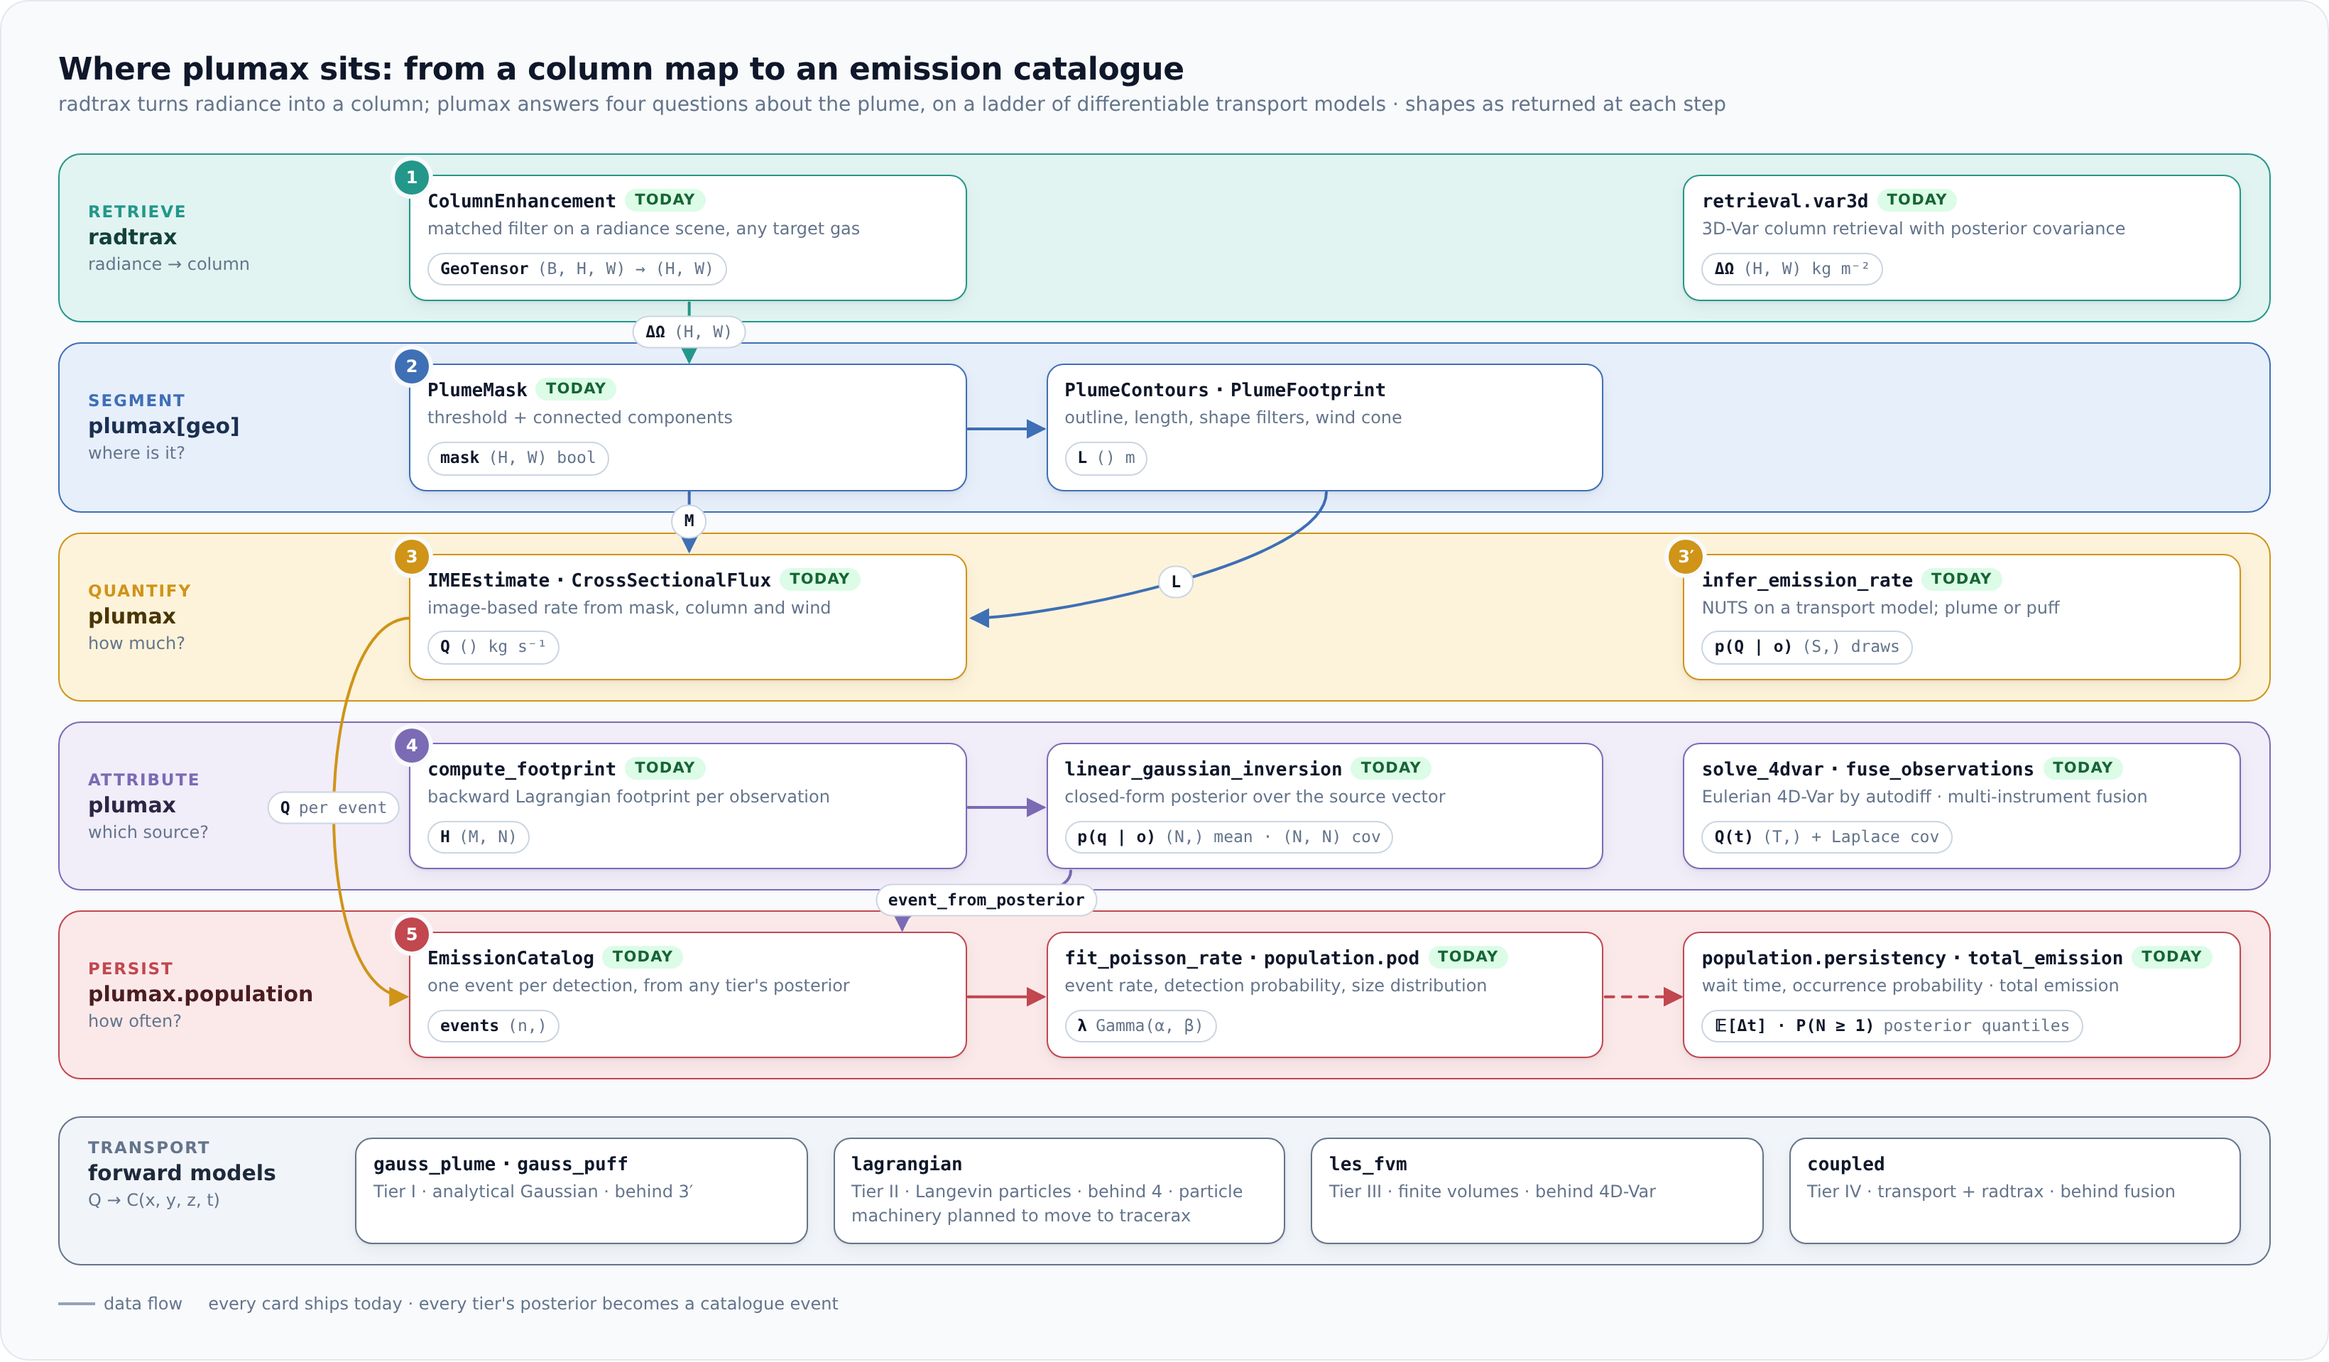
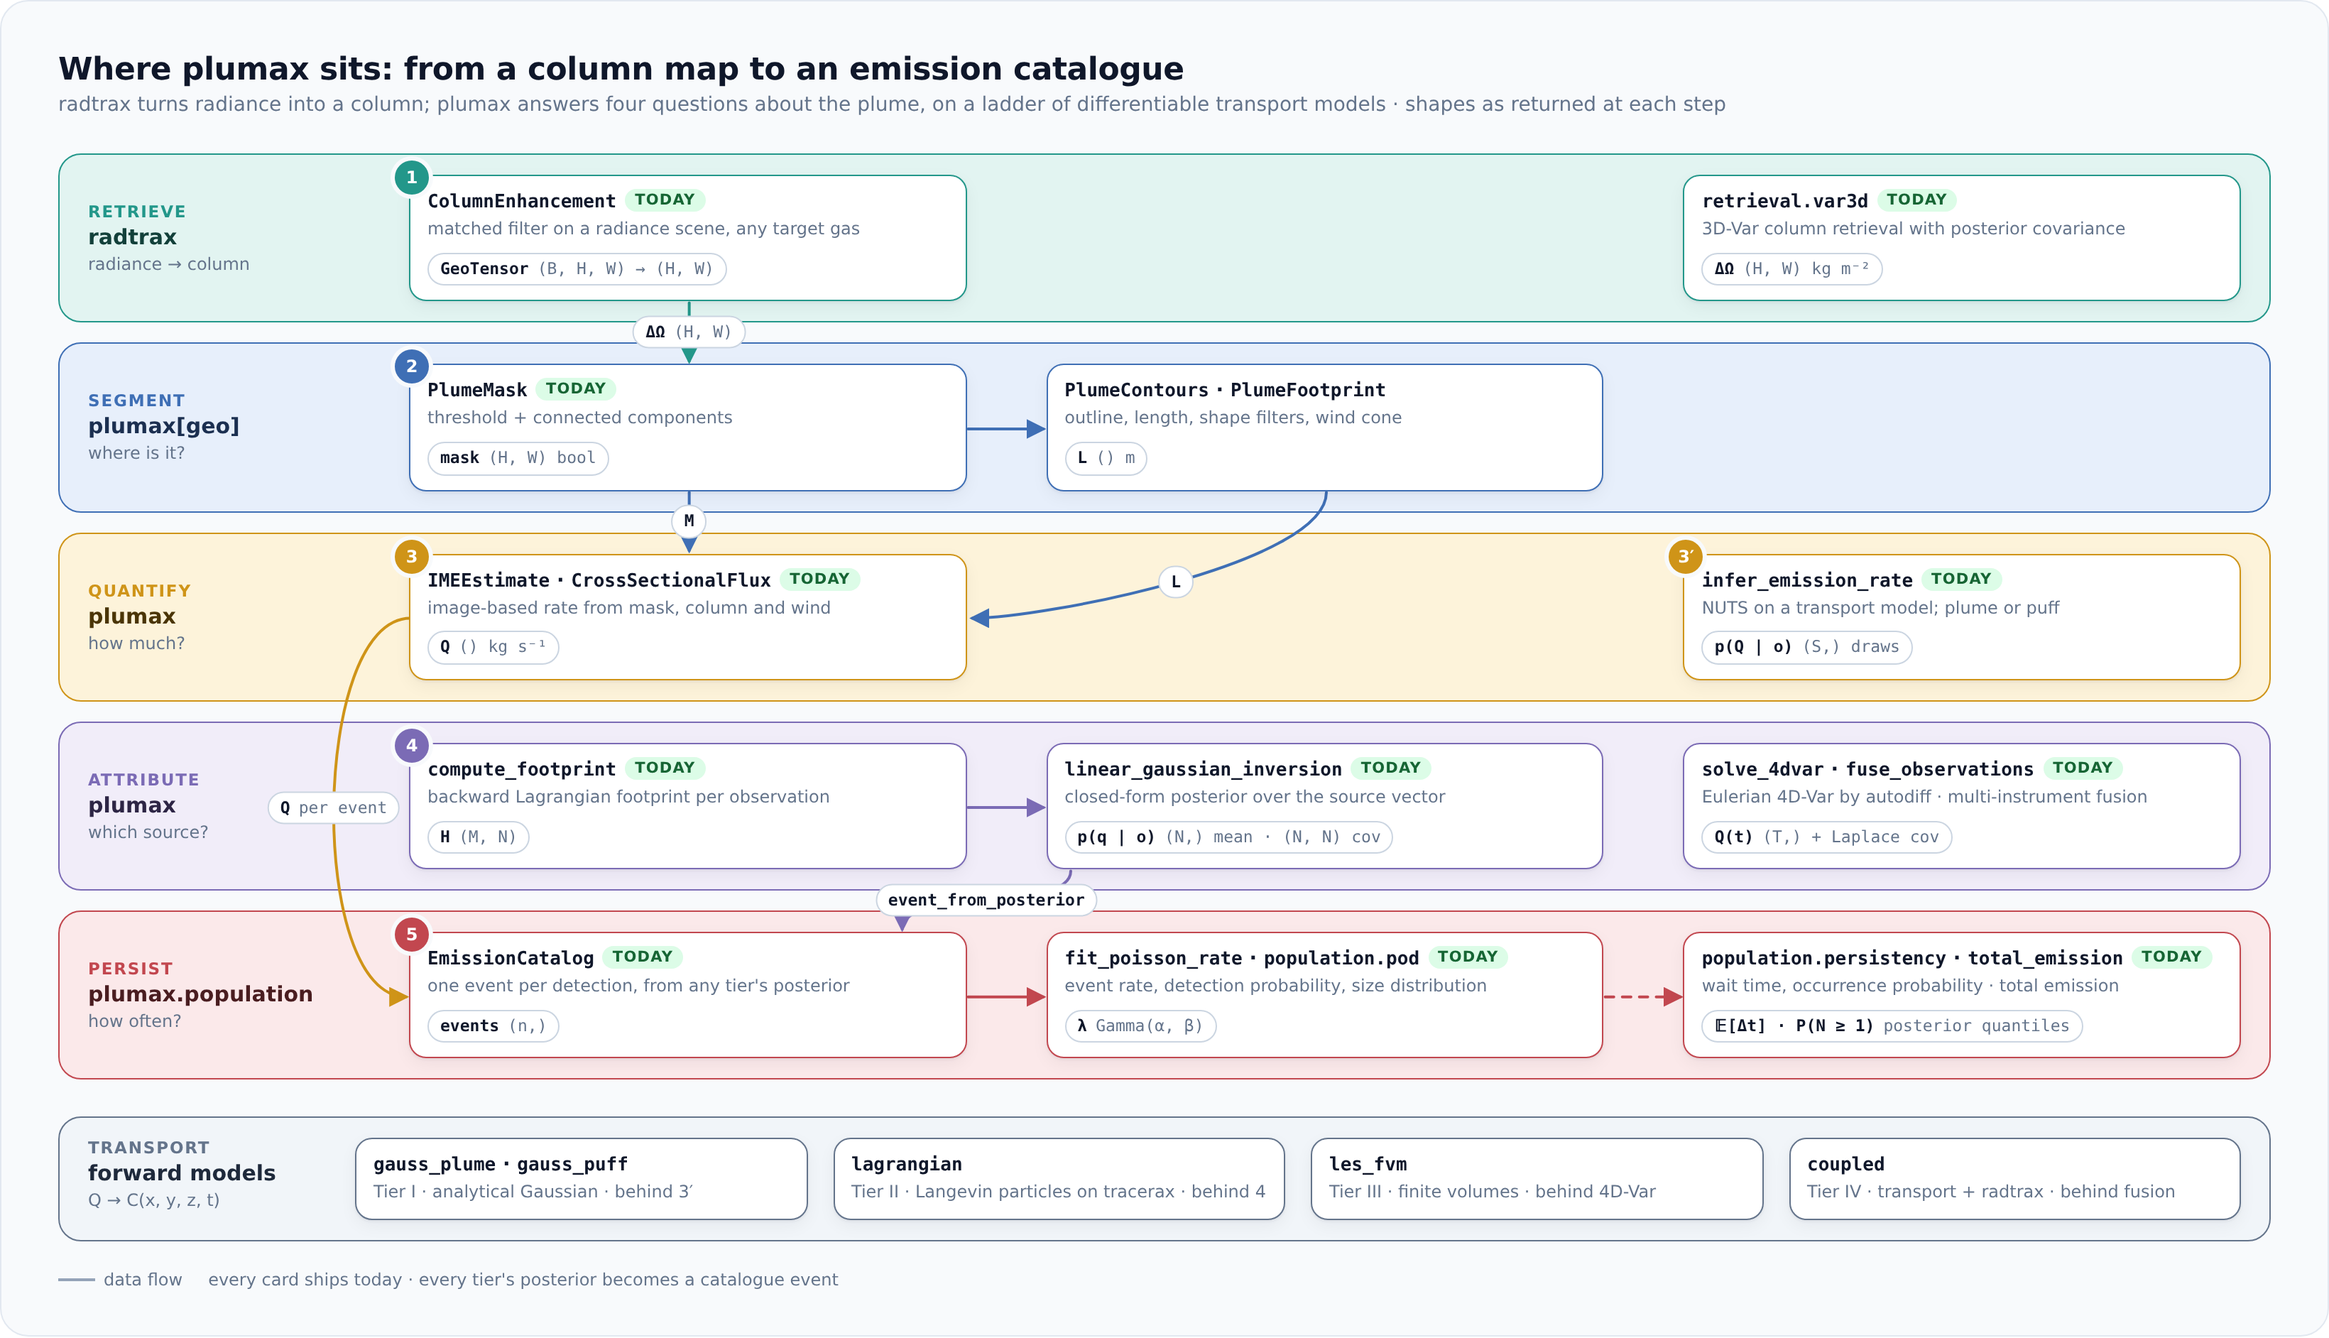
docs: plumax's particles are tracerax's, and closures take array parameters

diff --git a/docs/assets/diagrams/plumax-deps.html b/docs/assets/diagrams/plumax-deps.html
@@ -145,8 +145,8 @@
         </div>
         <div class="node planned" id="functax">
           <div class="name"><code>functax</code><span class="pin">planned</span></div>
-          <div class="desc">interpolation plans and quadrature rules, plumax #245 #244</div>
-          <div class="use">met · lagrangian</div>
+          <div class="desc">interpolation plans and quadrature rules, plumax #245</div>
+          <div class="use">met</div>
         </div>
         <div class="node planned" id="filterax">
           <div class="name"><code>filterax</code><span class="pin">planned</span></div>
@@ -159,13 +159,13 @@
       <div class="layer-head"><span class="verb">GeoNumerics</span><span class="what">geophysical maths on plain arrays</span></div>
       <div class="col1">
         <div class="node " id="gridax">
-          <div class="name"><code>gridax</code><span class="pin">v0.3.1</span></div>
+          <div class="name"><code>gridax</code><span class="pin">v0.3.3</span></div>
           <div class="desc">finite volumes, C-grid</div>
           <div class="use">les_fvm</div>
         </div>
-        <div class="node planned" id="tracerax">
-          <div class="name"><code>tracerax</code><span class="pin">planned</span></div>
-          <div class="desc">particle state, Langevin stepping, binning, footprints move out</div>
+        <div class="node " id="tracerax">
+          <div class="name"><code>tracerax</code><span class="pin">v0.0.6</span></div>
+          <div class="desc">particles, Langevin stepping, binning, footprints</div>
           <div class="use">lagrangian</div>
         </div>
         <div class="node planned" id="radiomax">

diff --git a/docs/assets/diagrams/plumax-stack.html b/docs/assets/diagrams/plumax-stack.html
@@ -134,7 +134,7 @@
   <div class="engine" id="engine">
     <div class="row-label"><div class="verb" style="color: var(--base)">transport</div><div class="pkg" style="color: var(--base-ink)">forward models</div><div class="q">Q → C(x, y, z, t)</div></div>
     <div class="node" id="t1"><div class="name"><code>gauss_plume</code> · <code>gauss_puff</code></div><div class="desc">Tier I · analytical Gaussian · behind 3′</div></div>
-    <div class="node" id="t2"><div class="name"><code>lagrangian</code></div><div class="desc">Tier II · Langevin particles · behind 4 · particle machinery planned to move to tracerax</div></div>
+    <div class="node" id="t2"><div class="name"><code>lagrangian</code></div><div class="desc">Tier II · Langevin particles on tracerax · behind 4</div></div>
     <div class="node" id="t3"><div class="name"><code>les_fvm</code></div><div class="desc">Tier III · finite volumes · behind 4D-Var</div></div>
     <div class="node" id="t4"><div class="name"><code>coupled</code></div><div class="desc">Tier IV · transport + radtrax · behind fusion</div></div>
   </div>

diff --git a/src/plumax/lagrangian/_src/turbulence.py b/src/plumax/lagrangian/_src/turbulence.py
@@ -31,6 +31,7 @@ import einx
 import equinox as eqx
 import jax
 import jax.numpy as jnp
+from jaxtyping import Array, Float
 
 from plumax._src.tracing import require_positive
 
@@ -41,6 +42,9 @@ _SIGMA_FLOOR: float = 1e-12
 #: Default Coriolis parameter f [1/s] for the neutral Hanna profiles: the
 #: value FLEXPART's ``hanna.f90`` hard-codes (latitude ≈ 43°).
 DEFAULT_CORIOLIS_PARAMETER: float = 1e-4
+
+#: One parameter of a closure: a number, or an array that a gradient reaches.
+Parameter = float | Float[Array, ""]
 
 
 class HomogeneousTurbulence(eqx.Module):
@@ -55,12 +59,12 @@ class HomogeneousTurbulence(eqx.Module):
         tau_w: Vertical Lagrangian timescale [s].
     """
 
-    sigma_u: float
-    sigma_v: float
-    sigma_w: float
-    tau_u: float
-    tau_v: float
-    tau_w: float
+    sigma_u: Parameter
+    sigma_v: Parameter
+    sigma_w: Parameter
+    tau_u: Parameter
+    tau_v: Parameter
+    tau_w: Parameter
 
     def __check_init__(self) -> None:
         for name in ("sigma_u", "sigma_v", "sigma_w"):
@@ -103,11 +107,11 @@ class HomogeneousTurbulence(eqx.Module):
 def hanna_profiles(
     z: jax.Array,
     *,
-    u_star: float,
-    pbl_height: float,
-    obukhov_length: float,
-    w_star: float = 0.0,
-    coriolis_parameter: float = DEFAULT_CORIOLIS_PARAMETER,
+    u_star: Parameter,
+    pbl_height: Parameter,
+    obukhov_length: Parameter,
+    w_star: Parameter = 0.0,
+    coriolis_parameter: Parameter = DEFAULT_CORIOLIS_PARAMETER,
 ) -> tuple[jax.Array, jax.Array]:
     """Hanna (1982) Monin–Obukhov-similarity turbulence profiles.
 
@@ -293,12 +297,12 @@ class HannaTurbulence(eqx.Module):
             profiles; defaults to FLEXPART's ``1e-4`` (see :func:`hanna_profiles`).
     """
 
-    u_star: float
-    pbl_height: float
-    obukhov_length: float
-    w_star: float = 0.0
-    z_floor: float = 0.1
-    coriolis_parameter: float = DEFAULT_CORIOLIS_PARAMETER
+    u_star: Parameter
+    pbl_height: Parameter
+    obukhov_length: Parameter
+    w_star: Parameter = 0.0
+    z_floor: Parameter = 0.1
+    coriolis_parameter: Parameter = DEFAULT_CORIOLIS_PARAMETER
 
     def __check_init__(self) -> None:
         require_positive("z_floor", self.z_floor, caller="HannaTurbulence")

diff --git a/README.md b/README.md
@@ -68,9 +68,9 @@ The dependency only goes one way, as plumax imports radtrax (the `coupled` tier 
 
 ## What it stands on
 
-plumax sits in GeoStack's GeoModels layer beside radtrax, and nothing below imports it back. It reaches down to gridax in GeoNumerics for the Eulerian grid, and to Core for the rest: gaussx for every posterior covariance, pipekit for the `Operator` interface and, behind extras, vardax and argminax for the source inversions and pyrox-xtreme for the point processes. Every tier exposes the same `forward(params, met) → observations`, so we write the samplers and assimilation schemes once against it. NumPyro does the sampling, vardax (the `assim` extra) runs the Tier II optimal interpolation and the Tier III 3D-Var over plumax's source-receptor maps, and filterax (ensemble Kalman methods) is the planned home for EKI. The [stack layer map](https://github.com/jejjohnson/geostack/blob/main/docs/design/stack_layer_map.md) also plans to move some of plumax out, as the particle machinery goes to tracerax, the per-pixel geometry to radiomax and the physical constants to geophysix.
+plumax sits in GeoStack's GeoModels layer beside radtrax, and nothing below imports it back. It reaches down to GeoNumerics, to gridax for the Eulerian grid and tracerax for the particles, and to Core for the rest: gaussx for every posterior covariance, pipekit for the `Operator` interface and, behind extras, vardax and argminax for the source inversions and pyrox-xtreme for the point processes. Every tier exposes the same `forward(params, met) → observations`, so we write the samplers and assimilation schemes once against it. NumPyro does the sampling, vardax (the `assim` extra) runs the Tier II optimal interpolation and the Tier III 3D-Var over plumax's source-receptor maps, and filterax (ensemble Kalman methods) is the planned home for EKI. The [stack layer map](https://github.com/jejjohnson/geostack/blob/main/docs/design/stack_layer_map.md) also plans to move some of plumax out, as the per-pixel geometry goes to radiomax and the physical constants to geophysix.
 
-<p align="center"><img src="docs/assets/diagrams/plumax-deps.png" alt="plumax and its dependencies in the layers of the geostack stack layer map: in GeoModels, plumax imports radtrax and radtrax never imports plumax; in Core, pipekit and gaussx are base dependencies, vardax and argminax come with the assim extra, pyrox-xtreme with the population extra and pipekit-train with the emulate extra, pipekit-cycle is used in tests only, geonnax arrives through radtrax, and integrix (sums, stepping and log-space quadrature), functax and filterax are planned; in GeoNumerics, gridax is a base dependency, and tracerax, radiomax and geophysix are planned homes for code that moves out of plumax; in GeoStack, geotoolz-ops comes with the geo extra and xrtoolz with the io extra; jax, equinox, einx, diffrax, optimistix, lineax, numpyro, xarray, netcdf4, scipy, georeader and scikit-learn are the third-party foundations" width="100%"></p>
+<p align="center"><img src="docs/assets/diagrams/plumax-deps.png" alt="plumax and its dependencies in the layers of the geostack stack layer map: in GeoModels, plumax imports radtrax and radtrax never imports plumax; in Core, pipekit and gaussx are base dependencies, vardax and argminax come with the assim extra, pyrox-xtreme with the population extra and pipekit-train with the emulate extra, pipekit-cycle is used in tests only, geonnax arrives through radtrax, and integrix (sums, stepping and log-space quadrature), functax and filterax are planned; in GeoNumerics, gridax and tracerax are base dependencies, and radiomax and geophysix are planned homes for code that moves out of plumax; in GeoStack, geotoolz-ops comes with the geo extra and xrtoolz with the io extra; jax, equinox, einx, diffrax, optimistix, lineax, numpyro, xarray, netcdf4, scipy, georeader and scikit-learn are the third-party foundations" width="100%"></p>
 
 The full stack's graph, and the rules that keep it acyclic, live in GeoStack's
 [package boundaries](https://github.com/jejjohnson/geostack/blob/main/docs/geomodels/package_boundaries.md)
@@ -274,8 +274,8 @@ cd plumax
 make install      # uv sync --all-groups + pre-commit hooks
 ```
 
-- The core install pulls JAX, xarray, diffrax/Equinox, einx, gridax, diagnostix, gaussx, optimistix, pipekit and radtrax.
-- gridax, diagnostix, gaussx, pipekit and radtrax are not yet on PyPI, and neither are most packages behind the extras; from a checkout they resolve from git via `[tool.uv.sources]`.
+- The core install pulls JAX, xarray, diffrax/Equinox, einx, gridax, tracerax, diagnostix, gaussx, optimistix, pipekit and radtrax.
+- gridax, tracerax, diagnostix, gaussx, pipekit and radtrax are not yet on PyPI, and neither are most packages behind the extras; from a checkout they resolve from git via `[tool.uv.sources]`.
 - Extras: `inference` (NumPyro), `assim` (vardax and argminax: the Tier II and Tier III source inversions and the Tier IV nonlinear inversion), `population` (NumPyro and pyrox-xtreme), `geo` (the plume operators on GeoArrays), `emulate` (pipekit-train, for the footprint emulator), `io` (readers) and `notebooks` (matplotlib, IPython): `uv add "plumax[inference,assim]"`.
 
 ## Development

diff --git a/docs/index.md b/docs/index.md
@@ -43,11 +43,11 @@ simulated plume to radiance through it); radtrax never imports plumax.
 
 ## What it stands on
 
-plumax sits in GeoStack's GeoModels layer beside radtrax, and nothing below imports it back. It reaches down to gridax in GeoNumerics for the Eulerian grid, and to Core for the rest: gaussx for every posterior covariance, pipekit for the `Operator` interface and, behind extras, vardax and argminax for the source inversions and pyrox-xtreme for the point processes. Every tier exposes the same `forward(params, met) → observations`, so we write the samplers and assimilation schemes once against it. NumPyro does the sampling, vardax (the `assim` extra) runs the Tier II optimal interpolation and the Tier III 3D-Var over plumax's source-receptor maps, and filterax (ensemble Kalman methods) is the planned home for EKI. The [stack layer map](https://github.com/jejjohnson/geostack/blob/main/docs/design/stack_layer_map.md) also plans to move some of plumax out, as the particle machinery goes to tracerax, the per-pixel geometry to radiomax and the physical constants to geophysix.
+plumax sits in GeoStack's GeoModels layer beside radtrax, and nothing below imports it back. It reaches down to GeoNumerics, to gridax for the Eulerian grid and tracerax for the particles, and to Core for the rest: gaussx for every posterior covariance, pipekit for the `Operator` interface and, behind extras, vardax and argminax for the source inversions and pyrox-xtreme for the point processes. Every tier exposes the same `forward(params, met) → observations`, so we write the samplers and assimilation schemes once against it. NumPyro does the sampling, vardax (the `assim` extra) runs the Tier II optimal interpolation and the Tier III 3D-Var over plumax's source-receptor maps, and filterax (ensemble Kalman methods) is the planned home for EKI. The [stack layer map](https://github.com/jejjohnson/geostack/blob/main/docs/design/stack_layer_map.md) also plans to move some of plumax out, as the per-pixel geometry goes to radiomax and the physical constants to geophysix.
 
 :::{figure} assets/diagrams/plumax-deps.png
 :label: fig-plumax-deps
-:alt: plumax and its dependencies in the layers of the geostack stack layer map: in GeoModels, plumax imports radtrax and radtrax never imports plumax; in Core, pipekit and gaussx are base dependencies, vardax and argminax come with the assim extra, pyrox-xtreme with the population extra and pipekit-train with the emulate extra, pipekit-cycle is used in tests only, geonnax arrives through radtrax, and integrix (sums, stepping and log-space quadrature), functax and filterax are planned; in GeoNumerics, gridax is a base dependency, and tracerax, radiomax and geophysix are planned homes for code that moves out of plumax; in GeoStack, geotoolz-ops comes with the geo extra and xrtoolz with the io extra; jax, equinox, einx, diffrax, optimistix, lineax, numpyro, xarray, netcdf4, scipy, georeader and scikit-learn are the third-party foundations.
+:alt: plumax and its dependencies in the layers of the geostack stack layer map: in GeoModels, plumax imports radtrax and radtrax never imports plumax; in Core, pipekit and gaussx are base dependencies, vardax and argminax come with the assim extra, pyrox-xtreme with the population extra and pipekit-train with the emulate extra, pipekit-cycle is used in tests only, geonnax arrives through radtrax, and integrix (sums, stepping and log-space quadrature), functax and filterax are planned; in GeoNumerics, gridax and tracerax are base dependencies, and radiomax and geophysix are planned homes for code that moves out of plumax; in GeoStack, geotoolz-ops comes with the geo extra and xrtoolz with the io extra; jax, equinox, einx, diffrax, optimistix, lineax, numpyro, xarray, netcdf4, scipy, georeader and scikit-learn are the third-party foundations.
 
 plumax's declared dependencies in the layers of the geostack stack layer map. Each card names the plumax subpackages that import it, and planned moves are dashed.
 :::
@@ -71,7 +71,7 @@ The [Roadmap & Architecture](design/roadmap.md) page has the tier breakdown, goi
 uv add plumax
 ```
 
-gridax, diagnostix, `gaussx`, `pipekit-ops` and `radtrax` are not yet on PyPI; from a checkout they resolve from git via `[tool.uv.sources]`. NumPyro (Bayesian inference), vardax and argminax (the source inversions), pyrox-xtreme (populations), the plume operators on GeoTensors and the notebook dependencies are optional extras:
+gridax, tracerax, diagnostix, `gaussx`, `pipekit-ops` and `radtrax` are not yet on PyPI; from a checkout they resolve from git via `[tool.uv.sources]`. NumPyro (Bayesian inference), vardax and argminax (the source inversions), pyrox-xtreme (populations), the plume operators on GeoTensors and the notebook dependencies are optional extras:
 
 ```bash
 uv add "plumax[inference,assim]"
